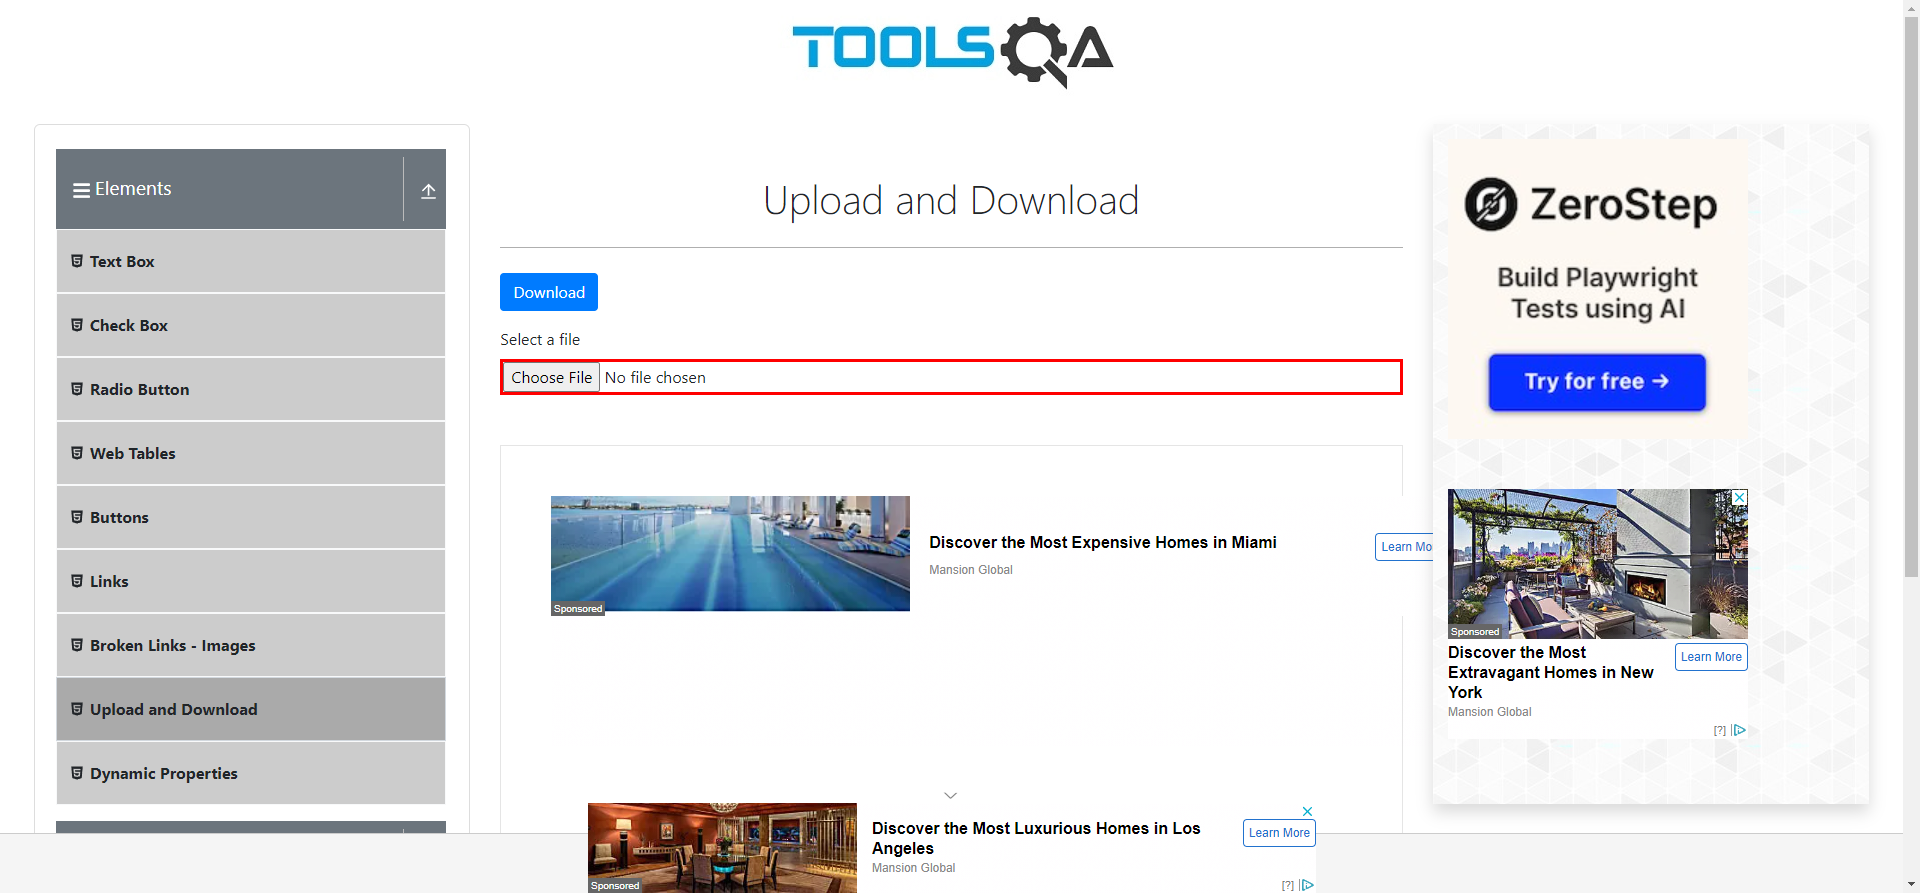
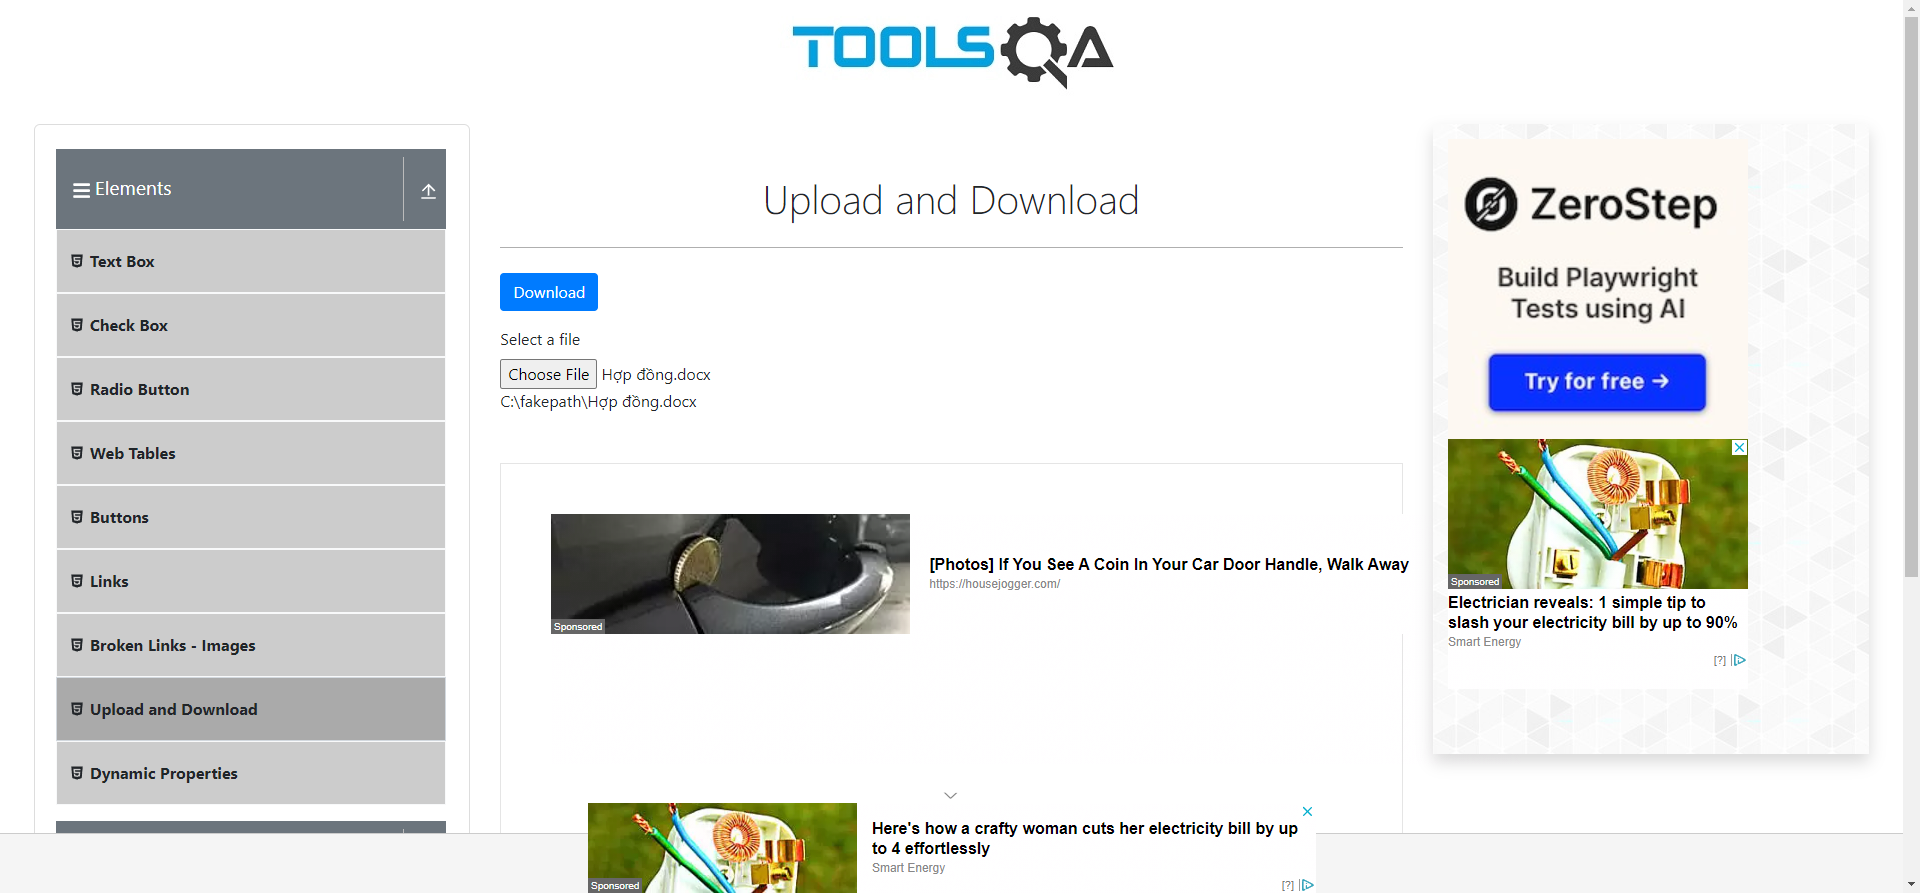
update File Upload

diff --git a/src/test/java/page/ElementsUploadFileQAPage.java b/src/test/java/page/ElementsUploadFileQAPage.java
@@ -2,6 +2,7 @@ package page;
 
 import helpers.RobotHelper;
 import org.openqa.selenium.By;
+import org.testng.Assert;
 
 import java.awt.*;
 
@@ -12,15 +13,23 @@ public class ElementsUploadFileQAPage {
     String URL = "https://demoqa.com/upload-download";
 
     public By uploadBtn = By.id("uploadFile");
+    public By pUploadFilePath = By.id("uploadedFilePath");
 
-    public void clickUploadBtn() {
-        setText(uploadBtn, "C:\\Users\\LENOVO\\OneDrive\\Máy tính\\Hợp đồng.docx");
+
+ public String filePath = "C:\\Users\\LENOVO\\OneDrive\\Máy tính\\Hợp đồng.docx";
+    public void enterFileInput() {
+        setText(uploadBtn, filePath);
+    }
+
+    public void verifyNameMessageDisplay(String expected, String message) {
+        Assert.assertTrue(getWebElement(pUploadFilePath).isDisplayed(), "FAIL. Error message no displays.");
+        Assert.assertEquals(getTextElement(pUploadFilePath), expected, message);
     }
 
 
     public void upload() {
         openURL(URL);
-        clickUploadBtn();
+        enterFileInput();
         sleep(1);
 
     }

diff --git a/src/test/java/testCase/ElementsUploadFileQATest.java b/src/test/java/testCase/ElementsUploadFileQATest.java
@@ -14,6 +14,8 @@ public class ElementsUploadFileQATest extends BaseTest {
     @Test
     public void uploadTest()  {
         eUpload.upload();
+        eUpload.verifyNameMessageDisplay(eUpload.filePath,"not match filePath");
+
     }
 
 
